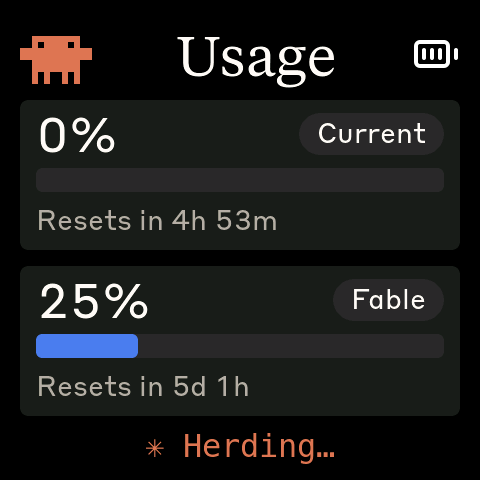
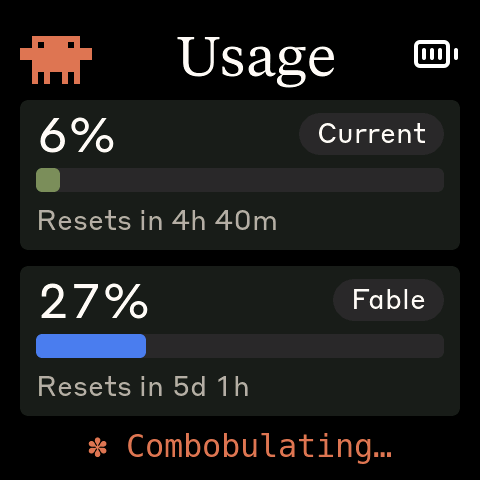
docs: the config options nobody could find, and a caption that had gone false
Three gaps, found by checking the READMEs against what the code now does
rather than against each other.

`daemon/config.example` is where you look for the list of options, and it
documented none of the sink keys -- not `busybar_url`, `busybar_serve`,
`busybar_cli`, nor `ble`. Someone following the root README could turn a BUSY
Bar on but had no way to discover that push and pull are exclusive, or that a
bar-only install needs `ble = off`.

The root README undersold the thing and never linked its own reference. It
described the push path as "the 5-hour quota as a bar" and stopped, with no
mention of the app, the rotation, the buttons, or `busybar/README.md`, which
left the detailed doc unreachable from the front page.

And the "no data" row claimed "the pet stays: the app is alive", which stopped
being true when that screen became an alert too. `screenshots/busybar/
state-nodata.png` is still the old frame and needs recapturing.

Also swaps in a live Claude capture taken mid-session, so the number on it is
a window in use rather than an idle 0%.

diff --git a/README.md b/README.md
@@ -75,18 +75,25 @@ Adding a provider means writing one collector against the interface in
 
 The same payload can be mirrored to another screen through
 [`daemon/sinks/`](daemon/sinks/__init__.py). A [BUSY Bar](https://busy.app)
-sink ships with it — the 5-hour quota as a bar, with the reset counting down
-on the device itself:
+— a 72×16 LED matrix — is supported two ways: the daemon can **push** one
+quota to it, or the bar can run an app that **pulls** and rotates through
+every quota your plans meter, each with its label and mascot, with the bar's
+own Start/Pause bar and wheel driving it.
 
 ```ini
 # ~/.config/claude-usage-monitor/config
-busybar_url = http://busybar.local
+busybar_url = http://10.0.4.20      # push; USB, the address on the case
 ```
 
-Secondary is literal: a sink can never gate or crash the meter on your desk,
-and the whole path costs nothing when unconfigured. It also publishes *below*
-a focus session's priority, so it will never overwrite the BUSY status the bar
-exists to show.
+**[`busybar/README.md`](busybar/README.md) is the reference** — how to install
+it on macOS, where every number comes from, every screen, and the device
+quirks. It is self-contained: **you do not need the ESP32 meter.** Set
+`ble = off` and the daemon polls for the bar alone.
+
+Secondary is literal: a sink can never gate, delay or crash the meter on your
+desk, and the whole path costs nothing when unconfigured. It also publishes
+*below* a focus session's priority, so it will never overwrite the BUSY status
+the bar exists to show.
 
 **[`docs/petmeter.md`](docs/petmeter.md)** documents everything this fork
 adds: the collector interface, the wire format, the theme and art-set systems,

diff --git a/busybar/README.md b/busybar/README.md
@@ -25,7 +25,7 @@ And the states you hope not to see:
 
 | | |
 |---|---|
-| ![No data](../screenshots/busybar/state-nodata.png) | **no data** — the daemon is there, the reading is not. The pet stays: the app is alive |
+| ![No data](../screenshots/busybar/state-nodata.png) | **The host has no data yet.** — the daemon answered, with nothing in it. The same alert, worded so it does not blame the connection |
 | ![No host](../screenshots/busybar/state-nohost.png) | **The host is unreachable.** — a System 7 caution alert, lit-on-dark for the matrix. No pet, because the pet lives on the host; the alert's icon stands in its slot |
 | ![Paused](../screenshots/busybar/state-paused.png) | **paused** — the 2×2 badge at the top right, the only room there was for one |
 | ![Toast](../screenshots/busybar/state-toast-running.png) | the **toast** on a press — the word replaces the caption for two seconds, then the device removes it itself |
